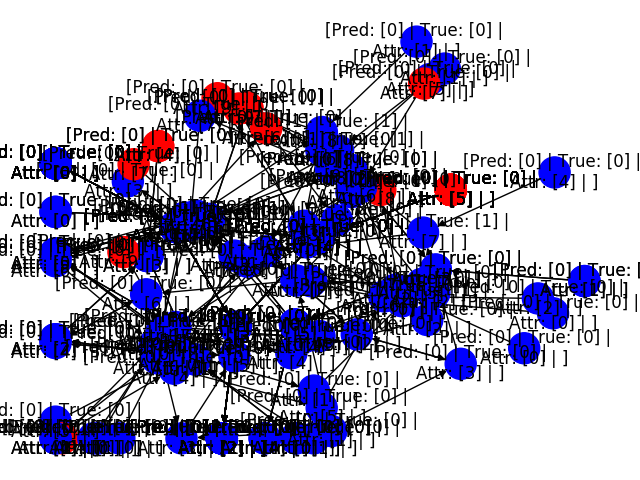
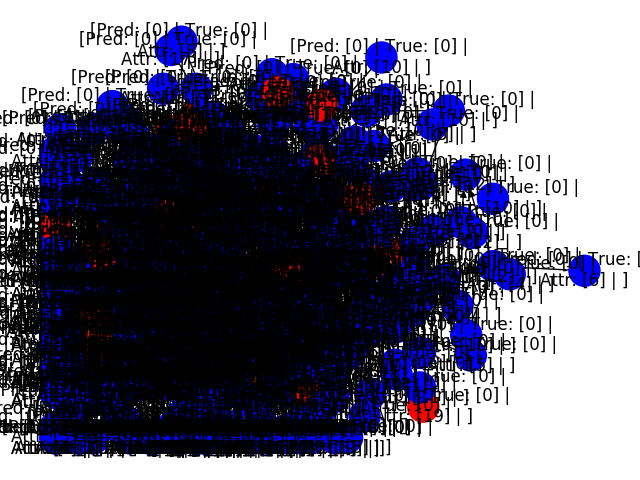
.

diff --git a/programl/task/dataflow/ggnn_test.py b/programl/task/dataflow/ggnn_test.py
@@ -288,7 +288,7 @@ def Main():
             print("Processing graph file: %s..." % graph_fname)
             graph_path = graphs_dir + graph_fname
             try:
-                graph = TestOneGraph(graph_path, '0')
+                graph = TestOneGraph(graph_path, '-1')
             except TooManyNodesError:
                 print("Skipping graph %s due to exceeding number of nodes..." % original_graph_fname)
                 continue
